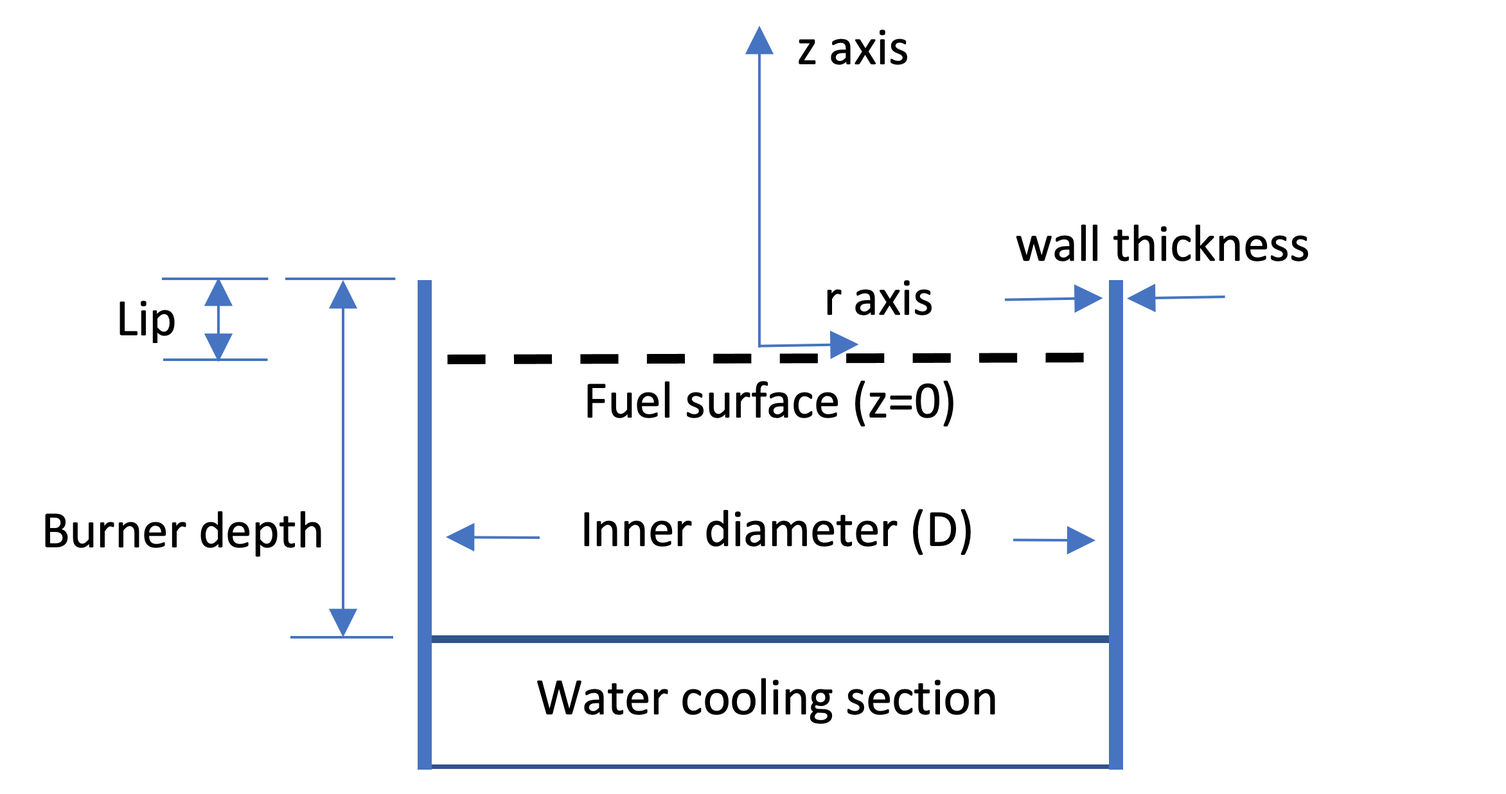
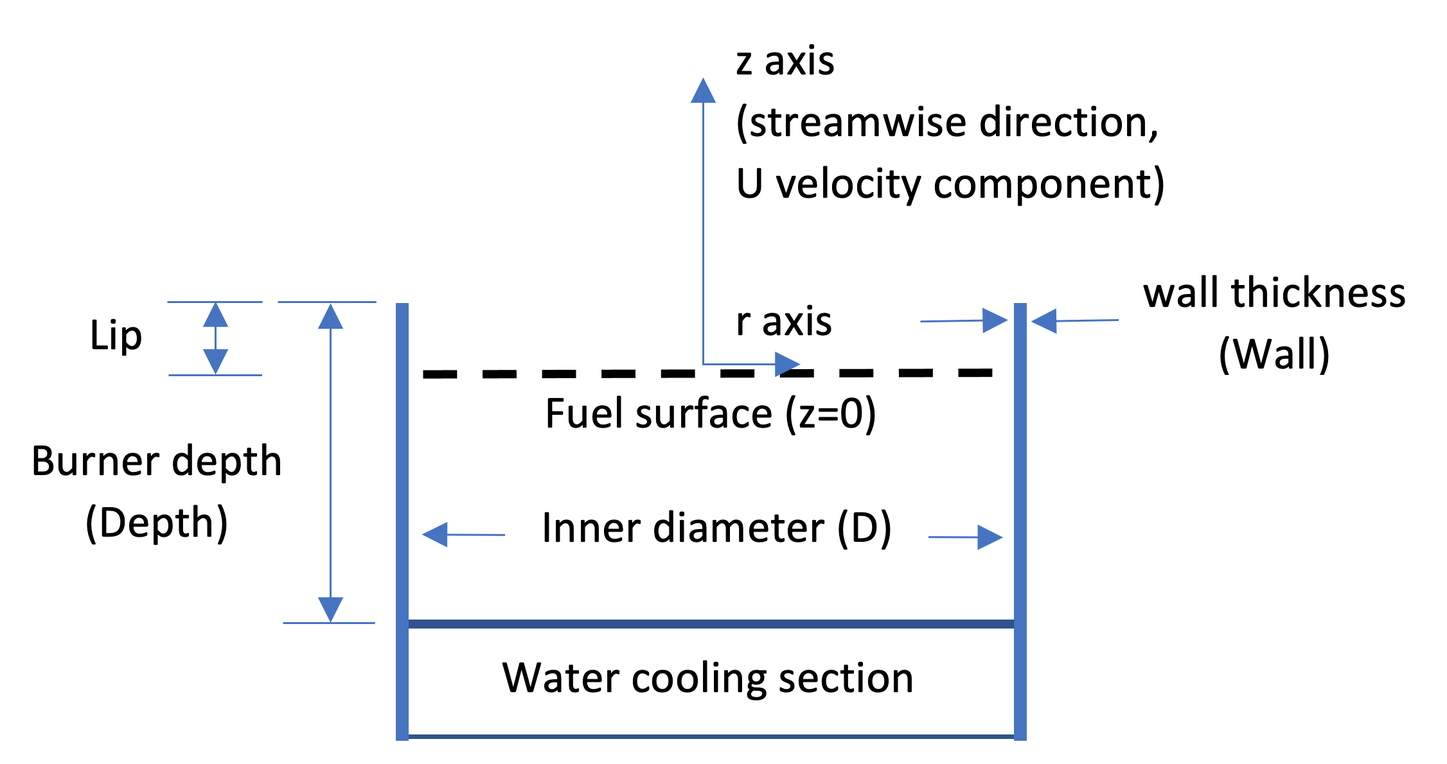
NIST Pool Fires: update README

diff --git a/Liquid_Pool_Fires/NIST_Pool_Fires/Documentation/README.md b/Liquid_Pool_Fires/NIST_Pool_Fires/Documentation/README.md
@@ -1,23 +1,23 @@
-
 ## NIST Pool Fires
 
 This directory contains experimental measurements of liquid and gaseous pool fires. Results using two circular, liquid pool burners are reported, 30 cm and 100 cm in diameter. Results using a 37 cm diameter, water-cooled, gaseous burner are also reported.  Experimental results are reported for steadily burning fires in a well-ventilated, quiescent environment. A warm-up period of 10 min was required for the mass burning rate of the liquid fuels to be steady.
 
-| Dia (cm) | Fuel | Mass Flux g/(m<sup>2</sup>-s) | Surf Temp (°C) | Rad Frac | Puf Freq (Hz) | TC Profile  | TC Bead (µm) | References |
-|-------|----------|--------------|---------|-------------|-------------|------------------|-------|-------------------------|
-| 30    | Methanol | 13.2 ± 0.4   | 64.6    | 0.22 ± 0.02 | 2.64 ± 0.06 | r=0; z=3.8, 30.8 | 225   | 1,2,3,4,5<sup>+</sup>, 6\*,7,9,10,16\*\* |
-| 30    | Methanol | 13.2 ± 0.4   | 64.6    | 0.22 ± 0.02 |             | r=0              | 52    | 13<sup>+</sup>                           |
-| 30    | Methanol | 13.2 ± 0.4   | 64.6    | 0.22 ± 0.02 |             | z=41, 51, 61     | 150   | 15<sup>+</sup>                           |
-| 30    | Ethanol  | 14.8 ± 1.2   | 78.4    | 0.26 ± 0.07 |             | r=0              | 199   | 1,2,3,6\*,13<sup>+</sup>          |
-| 30    | Acetone  | 18.3 ± 0.6   | 56.0    | 0.31 ± 0.06 |             | r=0              | 103   | 1,2,3,6\*,13<sup>+</sup>          |
+| D (cm) | Fuel | Mass Flux g/(m<sup>2</sup>-s) | Surf Temp(°C)<sup>++</sup> | Rad Frac | Puf Freq (Hz) | TC Profile  | TC Bead (µm) | References |
+|----------|------|-------------------------------|----------------|----------------------|------|-----------|-------------|------------|
+| 30.1    | Methanol | 13.2 ± 0.4   | 64.5±0.3| 0.22 ± 0.02 | 2.64 ± 0.06 | r=0; z=3.8, 30.8 | 225   | 1,2,3,4,5<sup>+</sup>, 6\*,7,9,10,16\*\* |
+| 30.1    | Methanol | 13.2 ± 0.4   | 64.5±0.3| 0.22 ± 0.02 |             | r=0              | 52    | 13<sup>+</sup>                           |
+| 30.1    | Methanol | 13.2 ± 0.4   | 64.6±0.3| 0.22 ± 0.02 |             | z=41, 51, 61     | 150   | 15<sup>+</sup>                           |
+| 30.1    | Ethanol  | 14.8 ± 1.2   | 78.3±0.2| 0.26 ± 0.07 |             | r=0              | 119   | 1,2,3,6\*,13<sup>+</sup>          |
+| 30.1    | Acetone  | 18.3 ± 0.6   |56.1±0.4 | 0.31 ± 0.06 |             | r=0              | 103   | 1,2,3,6\*,13<sup>+</sup>          |
 | 37    | Methane  | 6.4 ± 0.1    | 40 ± 10 | 0.15        |             | r=0              | 52    | 3,12\*,13<sup>+</sup>,14\*        |
 | 37    | Propane  | 4.16 ± 0.12  | 40 ± 10 | 0.15        | 2.31 ± 0.10 | r=0              | 125   | 12\*, 13<sup>+</sup>,14\*,17\*\*  |
 | 37    | Propane  | 6.9 ± 0.1    | 40 ± 10 | 0.22        | 2.31 ± 0.10 | r=0              | 125   | 12\*, 13<sup>+</sup>,14\*,17\*\*  |
-| 100   | Methanol | 16.3 ± 0.2   | 64.6    | 0.21 ± 0.01 | 1.37        | r=0; z=21,61,101,141,181 | 153   | 1\*,7\*,8(\*,\*\*),15<sup>+</sup> |
+| 100   | Methanol | 16.3 ± 0.2   | 64.5±0.3| 0.21 ± 0.01 | 1.37        | r=0; z=21,61,101,141,181 | 153   | 1\*,7\*,8(\*,\*\*),15<sup>+</sup> |
 
 \* radiative fraction  
 \*\* puffing frequency  
-<sup>+</sup> thermocouple (TC) properties.
+<sup>+</sup> thermocouple (TC) properties.  
+<sup>++</sup> the liquid fuel surface temperature is taken as the boiling point based on measurements at the pool surface [8], using the data provided in [19].
 
 <img src="100cm_Methanol_Pool_Fire.jpg" width="700">
 
@@ -28,87 +28,172 @@ Sequential photographs during a puffing cycle of the 100 cm methanol pool fire.
 Sequential photographs during a puffing cycle of the 30 cm methanol pool fire.
 
 
-### Notes:
+## Description of Burners and Coordinate System
 
-#### Burners, Coordinate System and Lip Height
-* Kim et al (2019) report that the NIST burner has an inner diameter of 30.1 cm, a wall thickness of 0.13 cm, and a depth of 15 cm. The burner is fitted with legs such that the burner rim is positioned 30 cm above the floor. The bottom of the burner is maintained at a constant temperature by flowing tap water (nominally 20 °C) through a 3 cm section on the bottom of the fuel pan.
+<img src="Pan_Burner.png" width="700">
 
-* Weckman and Strong (1996) report using a "30.5 cm diameter" burner.  Personal communication with Weckman (2020) clarifies that the _outer_ diameter of the burner is 30.5 cm, the wall thickness is 0.15 cm, and the depth is 6.0 cm.
+Schematic drawing of a liquid burner, illustrating its features. The table below lists the burner's diameter, depth, and wall thickness for the various studies of interest. The lip height used in the various references is also listed. 
 
-* The lip height (distance from the top of the burner rim to the fuel surface) varies from study to study. For 30 cm diameter methanol pool fires, Weckman and Strong (1996) and Kim et al. (2019) report a lip height of 10 mm, whereas Hamins et al. (1994), Klassen et al. (1994), and Hamins and Lock (2016) report a lip height of 5 mm.
+| D (cm)| Lip (mm) | Depth (cm) | Wall (mm) | Material      |References |
+|-------|----------|------------|-----------|---------------|------------|
+| 30.1  | 5        | 15         | 1.3       |stainless steel| 1,4,5,8    |
+| 30.1  | 10       | 15         | 1.3       |stainless steel| 2,3,6,13,16|
+| 37    | 0        | ~10        | NA        |porous bronze  | 1,12,17    |    
+| 100   | 5        | 15         | 1.7       |steel          | 7          |
+| 100   | 10       | 15         | 1.7       |steel          | 8          |
 
-* For 30 cm diameter ethanol and acetone pool fires, Kim et al. (2019) report a lip height of 10 mm.
+* Burners
 
-* The 37 cm gaseous burner (zero lip height) is water-cooled and maintains a nearly ambient temperature at the surface (approximately 40 ± 10 °C).
+     * The "30 cm NIST burner" is made of stainless stel and has an (inner) diameter of 30.1 cm, a wall thickness of 1.3 mm, and a depth of 15 cm. (Kim et al, 2019) The stainless steel burner is fitted with legs such that the burner rim is positioned 30 cm above the floor. The bottom of the burner is maintained at a constant temperature by flowing tap water (nominally 20 °C) through a 3 cm section on the bottom of the fuel pan. 
 
-* The 100 cm liquid pool burner is 15 cm deep with a wall thickness of 1.6 mm and has a lip height of 10 mm. It is also water cooled at the bottom (approximately 17 ± 3 °C).
+     * The Waterloo burner was reported to be "30.5 cm diameter." (Weckman and Strong, 1996) Personal communication with Weckman (2020) clarifies that the _outer_ diameter of the burner is 30.5 cm, the wall thickness is 0.15 cm, and the depth is 6.0 cm. 
 
-* For convenience, all experimental data reported here use a cylindrical coordinate system with the **fuel surface as the z-axis origin** and the pool center as the r-axis origin.  _NOTE: In some instances the coordinate frame has been shifted from what was reported in the literature such that the origin is the fuel surface instead of the top of the burner rim._
+     * The "100 cm NIST burner" is made of steel and has an inner diameter of 100 cm, a depth of 15 cm, and a wall thickness of 1.6 mm. The bottom of the burner is water cooled (approximately 17 ± 3°C) and was positioned on bricks such that the rim was about 40 cm above the floor. (Sung et al., 2020; 2021a) 
 
-#### Fuel Mass Flux
+* For convenience, all experimental data reported here use a cylindrical coordinate system with the **fuel surface as the z-axis origin** (see burner drawing above) and the pool center as the r-axis origin.
+
+* **NOTE**: In some instances the coordinate frame has been shifted from what was reported in the literature such that the origin is the fuel surface instead of the top of the burner rim. Many of the liquid pool fire references report results using the burner rim (top of the lip) as the z-axis origin (Hamins et al., 1994; Klassen et al., 1994; Hamins and Lock, 2016; Kim et al., 2019, Sung et al., 2020). Some liquid pool fire references report results using the fuel surface as the z-axis origin (Falkenstein-Smith et al, 2020a; 2020b; 2021a).
+
+* The **lip height** (distance from the top of the burner rim to the fuel surface - see the burner schematic drawing above) varied from study to study (see table above). 
+
+     * For the 30 cm diameter methanol pool fires, Weckman and Strong (1996), Kim et al. (2019), Falkenstein-Smith et al (2020a; 2020b), and Sung et al. (2020; 2021b) report a lip height of 10 mm, whereas Hamins et al. (1994), Klassen et al. (1994) and Hamins and Lock (2016) report a lip height of 5 mm.
+
+     * For the 30 cm diameter ethanol and acetone pool fires, Kim et al. (2019) report a lip height of 10 mm.
+
+     * The lip height of the 37 cm gaseous burner studies was zero. 
+
+
+### Fuel Surface Temperature
+
+* The table at the top of the page shows the fuel surface temperatures for the fires burning liquid and gaseous fuels. 
+
+     * For liquid fuels, measurements show that the fuel surface temperature is close to the fuel boiling point. For example, see Sung et al. (2020).
+
+     * The 37 cm gaseous burner (zero lip height) is water-cooled and maintains a near-ambient temperature at the burner surface (typically about 40°C).
+
+### Fuel Mass Flux
 
 * The table at the top of the page shows the measured mass flux for all the pool fires averaged over the results reported by the references in the table.
 
-* For example the measured mass flux for the 30 cm methanol pool fire, averaged over the various studies, is 13.2 ± 0.9 g/(m<sup>2</sup> s) (Kim et al., 2019; Buch et al. 1997; Klassen and Gore, 1994; Weckman and Strong, 1996; Hamins et al., 1994; Falkenstein-Smith et al., 2020a, 2020b).
+     * The measured mass flux for the 30 cm methanol pool fire, averaged over the various studies, is 13.2 ± 0.9 g/(m<sup>2</sup> s) (Kim et al., 2019; Buch et al. 1997; Klassen and Gore, 1994; Weckman and Strong, 1996; Hamins et al., 1994; Falkenstein-Smith et al., 2020a, 2020b).
 
-
-#### Radiative Fraction
+### Radiative Fraction
 
 * The table at the top of the page shows the measured radiative fraction for the pool fires averaged over the results reported by the cited references.
 
-* For example, the measured radiative fraction for the 30 cm methanol pool fire, averaged over the various studies, is 0.22 ± 0.02 based on the cited references (Kim et al., 2019; Buch et al., 1997; see discussion of Klassen and Gore's 1994 results in Sung et al., 2020).
+* 30 cm Methanol Pool Fire
 
-* The measured radiative fraction for the 100 cm methanol pool fire is 0.21 ± 0.01 (Klassen and Gore, 1994; Sung et al., 2020). The radiative fraction measured by Klassen and Gore was recalculated using the net heat of combustion of 19940 kJ/kg and to improve the estimate of radiative heat feedback to the pool surface (see Sung et al., 2020).
+     * The measured radiative fraction for the 30 cm methanol pool fire, averaged over the various studies, is 0.22 ± 0.02 based on the cited references (Kim et al., 2019; Buch et al., 1997; see discussion of Klassen and Gore's 1994 results in Sung et al., 2020).
 
-#### Puffing Frequency
+* 100 cm Methanol Pool Fire
 
-The dominant puffing frequencies was determined from analysis of large scale features of the plume (e.g., flame height).  See papers for more detail.
+     * The measured radiative fraction for the 100 cm methanol pool fire is 0.21 ± 0.01 (Sung et al., 2020). 
+      
+     * The radiative fraction measured by Klassen and Gore was recalculated using the net heat of combustion of 19940 kJ/kg and to improve the estimate of radiative heat feedback to the pool surface (see Sung et al., 2020). 
+     
+     * The same exact burner was used by Klassen and Gore (1994) and Sung et al. (2020).   
 
-### Local Measurements
+### Combustion Efficiency
+* For the methanol, ethanol and acetone pool fires, the amount of CO in the exhaust stream was measured to be below detection limits, so the combustion efficiency is thought to be close to 1. (Kim et al., 2019; Sung et al, 2019)
 
-#### Coordinate System and Lip Height
+### Puffing Frequency
 
-* For convenience, all experimental data reported here use a cylindrical coordinate system with the **fuel surface as the z-axis origin** and the pool center as the r-axis origin.
+* The table at the top of the page lists the dominant puffing frequency of the fires, determined from analysis of features of the plume (e.g., flame height). For more detail, see the references cited in the table.
 
-* It should be noted that in many of the liquid pool fire references the results are reported using the burner rim (top of the lip) as the z-axis origin (Hamins et al., 1994; Klassen et al., 1994; Hamins and Lock, 2016; Kim et al., 2019). The lip height (distance from the top of the burner rim to the fuel surface) varied from study to study.
+* The same pool fire puffing frequency (f) is expected for pool fires of the same diameter (D), which has been shown to be **f = 1.5/√D** (Pagni, 1990)
 
-* For the 30 cm diameter methanol pool fires, Weckman and Strong (1996) and Kim et al. (2019) report a lip height of 10 mm, whereas Hamins et al. (1994), Klassen et al. (1994) and Hamins and Lock (2016) report a lip height of 5 mm.
+## Local Measurements
 
-#### Temperature
+### Temperature
 
-* The table at the top of the page shows the thermocouple bead diameter (TC Bead) used for each of the temperature data profiles (TC Profiles).
+* Mean and RMS thermocouple temperature measurements (TC and TC_RMS) were made using fine-wire, bare-bead, Type S and Type R (platinum/platinum-rhodium), thermocouples with approximately spherical beads. 
+ 
+* Mean and RMS gas temperatures (TG and TG_RMS) were estimated for some of the temperature data, in which the TC and TC_RMS measurements are corrected for radiative loss and thermal inertia. (Sung et al., 2020; 2021a; 2021b)
 
-* Temperature measurements were made using fine-wire, bare-wire, type S (platinum) thermocouples with approximately spherical beads. The table below lists the thermocouple bead diameters used to acquire the pool fire temperature data. The associated references are also listed.
+* The table at the top of the page lists the thermocouple bead diameter (see column lableded "TC Bead") used for each of the temperature profiles. 
 
-* Hamins and Lock (2016) report mean and rms centerline and radial thermocouple temperature measurements in a 30 cm methanol pool fire. The radial measurements were made at heights of 3.8 and 30.8 cm above the pool surface (as opposed to the rim of the burner). Measurements were made with a nearly-spherical 225 µm diameter bare-bead, 75 µm wire diameter, type S thermocouple.
+| Experimental Data Filename  |  Description             |
+|-----------------------------|--------------------------|
+|  Acetone_30_cm_TC_r=0_Falkenstein-Smith_2021a.csv | Centerline thermocouple and gas temperature measurements. (Falkenstein-Smith et al., 2021a) |
+| Ethanol_30_cm_TC_r=0_Falkenstein-Smith_2021a.csv | Centerline thermocouple temperature measurements. (Falkenstein-Smith et al., 2021a) |
+| Methanol_30_cm_TC_r=0_Hamins_2016.csv | Centerline thermocouple temperature measurements. (Hamins and Lock, 2016) |
+| Methanol_30_cm_TC_r=0_Falkenstein-Smith_2021a.csv  | Centerline thermocouple temperature measurements. (Falkenstein-Smith et al., 2021a)|
+| Methanol_30_cm_TC_z=38_mm_Hamins_2016.csv  | Radial thermocouple temperature measurements made at z=38 mm above the fuel surface. (Hamins and Lock, 2016)|
+| Methanol_30_cm_TC_z=308_mm_Hamins_2016.csv |Radial thermocouple temperature measurements made at z=30.8 cm above the fuel surface. (Hamins and Lock, 2016)|
+| Methanol_30_cm_TC_z=41_Sung_2021.csv  | Radial thermocouple temperature measurements made at z=41 above the fuel surface. (Sung et al., 2021b) |
+| Methanol_30_cm_TC_z=51_Sung_2021.csv  | Radial thermocouple temperature measurements made at z=51 above the fuel surface. (Sung et al., 2021b)|
+| Methanol_30_cm_TC_z=61_Sung_2021.csv  | Radial thermocouple temperature measurements made at z=61 above the fuel surface. (Sung et al., 2021b) |
+| Methane_37_cm_TC_r=0_Falkenstein-Smith_2021a.csv  | Centerline thermocouple and gas temperature measurements. (Falkenstein-Smith et al., 2021a) |
+| Propane_37_cm_34_kW_TC_r=0_Falkenstein-Smith_2021.csv |Centerline thermocouple and gas temperature measurements. (Falkenstein-Smith et al., 2021a; 2021b) |
+| Propane_37_cm_20_kW_TC_r=0_Falkenstein-Smith_2021.csv | Centerline thermocouple and gas temperature measurements. (Falkenstein-Smith et al., 2021a; 2021b) |
+| Methanol_100_cm_TC_r=0_Sung 2021a.csv  | Centerline thermocouple and gas temperature measurements. (Sung et al., 2021a) |
+|Methanol_100_cm_TC_z=101_cm_Sung_2021a.csv | Radial thermocouple and gas temperature measurements at z=101 cm above the fuel surface. (Sung et al., 2021a) |
+| Methanol_100_cm_TC_z=141_cm_Sung_2021a.csv | Radial thermocouple and gas temperature measurements at z=141 cm above the fuel surface. (Sung et al., 2021a) |
+| Methanol_100_cm_TC_z=181_Sung_2021a.csv | Radial thermocouple and gas temperature measurements at z=181 cm above the fuel surface. (Sung et al., 2021a)|
+| Methanol_100_cm_TC_z=21_cm_Sung_2021a.csv |Radial thermocouple and gas temperature measurements at z=21 cm above the fuel surface. (Sung et al., 2021a)|
+| Methanol_100_cm_TC_z=61_cm_Sung_2021a.csv | Radial thermocouple and gas temperature measurements at z=61 cm above the fuel surface. (Sung et al., 2021a) |
 
-* Sung and Hamins (2021) report mean and rms radial thermocouple temperature measurements in a 30 cm methanol pool fire. Radial measurements were made at heights of 41, 51, and 61 cm above the pool surface (as opposed to the rim of the burner). Measurements were made with a nearly-spherical 150 µm diameter bare-bead, 50 µm wire diameter, type S thermocouple. Centerline measurements made with a nearly-spherical 52 µm diameter bare-bead, 13 µm wire diameter, type S thermocouple are available upon request.
 
-* Sung et al. (2020) report mean and rms centerline and radial thermocouple temperature measurements in a 100 cm methanol pool fire. Radial measurements were made at heights of 21, 61, 101, 141, and 181 cm above the pool surface (as opposed to the rim of the burner). Measurements were made with a nearly-spherical 153 µm diameter bare-bead, 50 µm wire diameter, type S thermocouple.
+### Gas Species and Soot
 
-#### Gas Species and Soot
+* Gas species measurements were made along the fire centerline (r=o), using extractive sampling with a water-cooled probe, injecting the sample into a gas chromatograph/mass spectrometer system (GC/MSD). The volume fraction of each species was calculated based on the number of moles measured by the GC/MSD. Falkenstein-Smith et al. (2020a and 2020b)
+ 
+* Soot mass fractions were measured gravimetrically during the gas sampling process. 
 
-* Falkenstein-Smith et al. (2020a and 2020b) measured the time-averaged centerline species concentrations within the flaming region of three 30 cm liquid fuel fires: acetone, ethanol, and methanol. Falkenstein-Smith et al. (2020b) measured the time-averaged centerline species concentrations and temperatures in a 34 kW methane fire and 20 kW and 34 kW propane fires established on a 37 cm diameter gas burner. The measurements were made using a gas chromatograph/mass spectrometer system (GC/MSD). The volume fraction of each species was calculated via the number of moles identified by the GC/MSD at each centerline point. Soot mass fractions were measured during the gas sampling process. The data for the liquid fuels is in the files `Acetone_30_cm.csv`, `Ethanol_30_cm.csv`, and `Methanol_30_cm.csv`. The data for the gaseous fuels is in `Methane_37_cm.csv`, `Propane_37_cm_20_kW.csv`, and `Propane_37_cm_34_kW.csv`.
+| Experimental Data Filename            |  Description             |
+|---------------------------------------|--------------------------|
+| Acetone_30_cm_species_r=0_Falkenstein-Smith_2020a.csv | Mean gas species and soot, and their uncertainties as a function of distance above the fuel surface along the pool centerline (r=0). Falkenstein-Smith et al. (2020a, 2020b, 2021a) |
+|Ethanol_30_cm_species_r=0_Falkenstein-Smith_2020a.csv |Mean gas species and soot, and their uncertainties as a function of distance above the fuel surface along the pool centerline (r=0). Falkenstein-Smith et al. (2020a, 2020b, 2021a) |
+| Methanol_30_cm_species_r=0_Falkenstein-Smith_2020a.csv |Mean gas species and their uncertainties as a function of distance above the fuel surface along the pool centerline (r=0). There is no measurable soot in the methanol fire. Falkenstein-Smith et al. (2020a, 2020b, 2021a) |
+| Methane_37_cm_species_r=0_Falkenstein-Smith_2020b.csv | Mean gas species and soot, and their uncertainties as a function of distance above the fuel surface along the pool centerline (r=0). Falkenstein-Smith et al. (2020b, 2021a) |
+| Propane_37_cm_20_kW_species_r=0_Falkenstein-Smith_2020b.csv| Mean gas species and soot, and their uncertainties as a function of distance above the fuel surface along the pool centerline (r=0). Falkenstein-Smith et al. (2020b, 2021a, 2021b) |
+|Propane_37_cm_34_kW_species_r=0_Falkenstein-Smith_2020b.csv | Mean gas species and soot, and their uncertainties as a function of distance above the fuel surface along the pool centerline (r=0). Falkenstein-Smith et al. (2020b, 2021a, 2021b) |
 
-* For the methanol, ethanol and acetone pool fires, the amount of CO in the exhaust stream was below detection limits, so the combustion efficiency is thought to be close to 1. (Kim et al., 2019; Sung et al, 2019)
 
-#### Heat Flux
+### Heat Flux
 
 * Radiative and total heat flux measurements were made at various locations in the 30 cm and 100 cm methanol pool fires, mapping the heat flux emitted radially outward from the vertical surface and downwards through the bottom surface of a cylindical control volume about the fire.
 
-* `Methanol_30_cm_HF_radial_Hamins_1994.csv` Radial profile of radiative heat flux in the downward direction from the pool center (r = 0) towards the burner edge (r ≅ 15 cm). The positions of the heat flux gauges were z = 0.7 cm above the fuel surface and oriented in the upward direction. (Hamins et al., 1994)
+| Experimental Data Filename               |  Description                     |
+|------------------------------------------|----------------------------------|
+| Methanol_30_cm_HF_radial_z=p7_cm_Hamins_1994.csv | Radial profile of radiative heat flux in the downward direction from the pool center (r = 0) towards the burner edge (r ≅ 15 cm). The heat flux gauges were z = 0.7 cm above the fuel surface and oriented in the upward direction. (Hamins et al., 1994)  |
+| Methanol_30_cm_HF_radial_z=1p3_cm_Kim_2019.csv| Radial profile of total heat flux in the downward direction from the pool center (r = 0) to r = 15 cm.  The heat flux gauges were oriented in the upward direction and positioned z = 1.3 cm above the fuel surface for 0 ≤ r (cm) ≤ 15. (Kim et al., 2019) |
+| Methanol_30_cm_HF_radial_z=1_cm_Kim_2019.csv| Radial profile of total heat flux in the downward direction from r = 15 to 150 cm.  The heat flux gauges were oriented in the upward direction and positioned z = 1.0 cm above the fuel surface for 0 ≤ r (cm) ≤ 15, respectively. (Kim et al., 2019) |
+| Methanol_30_cm_HF_radial_z=p5_cm_Klassen_1994.csv |Radial profile of total heat flux in the downward direction from the burner edge (r = 15 cm) to r = 85 cm. The heat flux gauges were z = 0.5 cm above the fuel surface and oriented in the upward direction. (Klassen and Gore, 1994) |
+|Methanol_30_cm_HF_vertical_r=60_cm_Kim_2019.csv| Vertical profile of total heat flux emitted radially away from the fire acquired at various heights above the fuel surface at r = 60 cm. The heat flux gauges were oriented towards the fire centerline. (Kim et al., 2019) |
+|Methanol_100_cm_HF_radial_z=1_cm_Sung_2019.csv | Radial profile of total heat flux in the downward direction from the burner edge (r = 50 cm) to r = 200 cm. The heat flux gauges were 1 cm above the fuel surface and oriented in the upward direction. (Sung et al., 2019) |
+| Methanol_100_cm_HF_Vertical_z=41_cm_Sung_2019.csv |Vertical profiles of total heat flux emitted radially away from the fire acquired at z=41 cm above the fuel surface for varying r distances with the gauges oriented towards the fire centerline. (Sung et al., 2019)|
+| Methanol_100_cm_HF_Vertical_z=61_cm_Sung_2019.csv |Vertical profiles of total heat flux emitted radially away from the fire acquired at z=61 cm above the fuel surface for varying r distances with the gauges oriented towards the fire centerline. (Sung et al., 2019) |
+| Methanol_100_cm_HF_Vertical_z=81_cm_Sung_2019.csv |Vertical profiles of total heat flux emitted radially away from the fire acquired at z=81 cm above the fuel surface for varying r distances with the gauges oriented towards the fire centerline. (Sung et al., 2019) |
+| Methanol_100_cm_HF_Vertical_r=207p5_cm_Sung_2019.csv| Vertical profiles of total heat flux emitted radially away from the fire acquired at r=207.5 cm above the fuel surface for z distances from 1 to 180.5 cm above the fuel surface with the gauges oriented towards the fire centerline. (Sung et al., 2019) |
 
-* `Methanol_30_cm_HF_radial_Klassen_1994.csv` Radial profile of total heat flux in the downward direction from the burner edge (r = 15 cm) to r = 85 cm. The positions of the heat flux gauges were z = 0.5 cm above the fuel surface and oriented in the upward direction. (Klassen and Gore, 1994)
 
-* `Methanol_30_cm_HF_radial_Kim_2019.csv` Radial profile of total heat flux in the downward direction from the pool center (r = 0) to r = 1.5 m.  The heat flux gauges were oriented in the upward direction and positioned z = 1.3 cm and z = 1.0 cm above the fuel surface for 0 ≤ r (cm) ≤ 15 and 15 ≤ r (cm) ≤ 150, respectively. (Kim et al., 2019)
+### Velocity
 
-* `Methanol_30_cm_HF_vertical_Kim_2019.csv` Vertical profile of total heat flux emitted radially away from the fire acquired at various z heights above the fuel surface at r = 60 cm from the pool center and oriented towards the fire centerline. (Kim et al., 2019)
+* Bi-directional probe measurements were made at various z locations on the centerline of the pool fires, mapping the speed of the plume in the upward direction. 
 
-* `Methanol_100_cm_HF_radial.csv` Radial profile of total heat flux in the downward direction from the burner edge (r = 0.50 m) to r = 2 m. The positions of the heat flux gauges were located z = 1 cm above the fuel surface and oriented in the upward direction. (Sung et al., 2019)
+| Experimental Data Filename  |  Description             |
+|-----------------------------|--------------------------|
+| Acetone_30_cm_U_r=0_Sung_2021.csv | Profile of the vertical component of velocity in the upward direction as a function of distance (z) above the fuel surface. (Sung et al., 2021b; Falkenstein - Smith et al., 2021a|
+| Ethanol_30_cm_U_r=0_Sung_2021.csv | Profile of the vertical component of velocity in the upward direction as a function of distance (z) above the fuel surface. (Sung et al., 2021b; Falkenstein - Smith et al., 2021a|
+| Methanol_30_cm_U_r=0_Sung_2021.csv | Profile of the vertical component of velocity in the upward direction as a function of distance (z) above the fuel surface. (Sung et al., 2021b; Falkenstein - Smith et al., 2021a|  
+| Methane_37_cm_U_r=0_Sung_2021.csv | Profile of the vertical component of velocity in the upward direction as a function of distance (z) above the fuel surface. (Sung et al., 2021b; Falkenstein - Smith et al., 2021a|
+|Propane_20_kW_37_cm_U_r=0_Sung_2021.csv |Profile of the vertical component of velocity in the upward direction as a function of distance (z) above the fuel surface. (Sung et al., 2021b; Falkenstein - Smith et al., 2021a; 2021b|
+|Propane_34_kW_37_cm_U_r=0_Sung_2021.csv |Profile of the vertical component of velocity in the upward direction as a function of distance (z) above the fuel surface. (Sung et al., 2021b; Falkenstein - Smith et al., 2021a; 2021b |
 
-* `Methanol_100_cm_HF_vertical.csv` Vertical profiles of total heat flux emitted radially away from the fire acquired at various z heights above the fuel surface and r distances from the pool center and oriented towards the fire centerline. (Sung et al., 2019)
+### Heat Release Rate (HRR)
 
-#### References
+* The table at the top of the page shows the measured mass flux and the measured radiative fraction. For covienence, the measured mass flux per unit area of the fuel surface (in kg/s/m2) and the radiative fraction are provided  in the files below: 
+
+| Experimental Data Filename  |  Description             |
+|-----------------------------|--------------------------|
+| Acetone_30_cm_HRR.csv  | Mass flux per unit area of the fuel surface and the radiative flux |
+| Ethanol_30_cm_HRR.csv  | Mass flux per unit area of the fuel surface and the radiative flux |
+| Methanol_30_cm_HRR.csv  | Mass flux per unit area of the fuel surface and the radiative flux |
+| Methanol_100_cm_HRR.csv  | Mass flux per unit area of the fuel surface and the radiative flux |
+
+
+## References
 
 1. Buch, R., Hamins, A., Konishi, K., Mattingly, D., and Kashiwagi, T., Radiative Emission Fraction of Pool Fires Burning Silicone Fluids, Combust. Flame, 108, 118-126 (1997). https://www.nist.gov/publications/radiative-emission-fraction-pool-fires-burning-silicone-fluids
 
@@ -124,7 +209,7 @@ The dominant puffing frequencies was determined from analysis of large scale fea
 
 7. Klassen, M. and J.P. Gore, Structure and Radiation Properties of Pool Fires, NIST GCR 94-651, National Institute of Standards and Technology, Gaithersburg, MD, June 1994. https://ntrl.ntis.gov/NTRL/dashboard/searchResults/titleDetail/PB94193802.xhtml#
 
-8. Sung, K., J. Chen, M. Bundy, M. Fernandez, and Hamins, A., The Thermal Character of a 1 m Methanol Pool Fire,  NIST Technical Note 2083, National Institute of Standards and Technology, Gaithersburg, MD, January 2020. https://doi.org/10.6028/NIST.TN.2083; Second Edition, 2021 (in internal review).
+8. Sung, K., J. Chen, M. Bundy, M. Fernandez, and Hamins, A., The Thermal Character of a 1 m Methanol Pool Fire,  NIST Technical Note 2083, National Institute of Standards and Technology, Gaithersburg, MD, January 2020. https://doi.org/10.6028/NIST.TN.2083; Second Edition, 2021a (in internal review).
 
 9. Weckman, E.J.; Personal Communication, Email to A. Hamins, 28 August 2020.
 
@@ -134,12 +219,16 @@ The dominant puffing frequencies was determined from analysis of large scale fea
 
 12. Hamins, A., Konishi, K., Borthwick, P, Kashiwagi, T., Global Properties of Gaseous Pool Fires, Proceedings Combustion Institute, 26:1429-1436 (1996).  https://www.nist.gov/publications/global-properties-gaseous-pool-fires
 
-13. Falkenstein-Smith, R., K. Sung, Chen, J., Harris, K., A. Hamins, The Structure of Medium-Scale Pool Fires, NIST Technical Note 2082, Second Edition, National Institute of Standards and Technology, Gaithersburg, MD,  2021 (in preparation).
+13. Falkenstein-Smith, R., K. Sung, Chen, J., Harris, K., A. Hamins, The Structure of Medium-Scale Pool Fires, NIST Technical Note 2082, Second Edition, National Institute of Standards and Technology, Gaithersburg, MD,  2021a (in preparation).
 
 14. A. Hamins, Energetics of Small and Moderate-Scale Gaseous Pool Fires,  NIST Technical Note 1926, National Institute of Standards and Technology, Gaithersburg, MD, November 2016. https://doi.org/10.6028/NIST.TN.1926
 
-15. Sung, K. and Hamins, A., Velocity and Temperature Structure of Medium-Scale Pool Fires, NIST Technical Note in preparation, National Institute of Standards and Technology, Gaithersburg, MD, 2021.
+15. Sung, K., Falkenstein-Smith, R., and Hamins, A., Velocity and Temperature Structure of Medium-Scale Pool Fires, NIST Technical Note in preparation, National Institute of Standards and Technology, Gaithersburg, MD, 2021b.
 
 16. Wang, Z., Tam, W.C, Chen, J., Lee, K.Y., and Hamins, A., Thin Filament Pyrometry Field Measurements in a Medium-Scale Pool Fire, Fire Technology, (2019). https://doi.org/10.1007/s10694-019-00906-9
 
-17. Falkenstein-Smith, R, Sung, KH, Hamins, A, The Structure of Medium-Scale Propane Pool Fires, 12th US National Combustion Meeting, in review, May 24-26 2021.
+17. Falkenstein-Smith, R, Sung, KH, Hamins, A, The Structure of Medium-Scale Propane Pool Fires, 12th US National Combustion Meeting, in review, May 24-26 2021b.
+
+18. Pagni, P. J., Pool fire vortex shedding frequencies,” in Some Unanswered Questions in Fluid Mechanics, edited by L. M. Trefethen and R. L. Panton, Applied Mechanics Reviews, 43(8), 166 (1990).
+
+19. Burgess, D. R. Jr., and Hamins, A., Heats of Combustion and Related Properties of Pure Substances, NIST Technical Note 2126 (in preparation), National Institute of Standards and Technology, Gaithersburg, MD 20899, 2021, to appear in the Appendices of the 6th Edition of the SFPE Handbook. 
